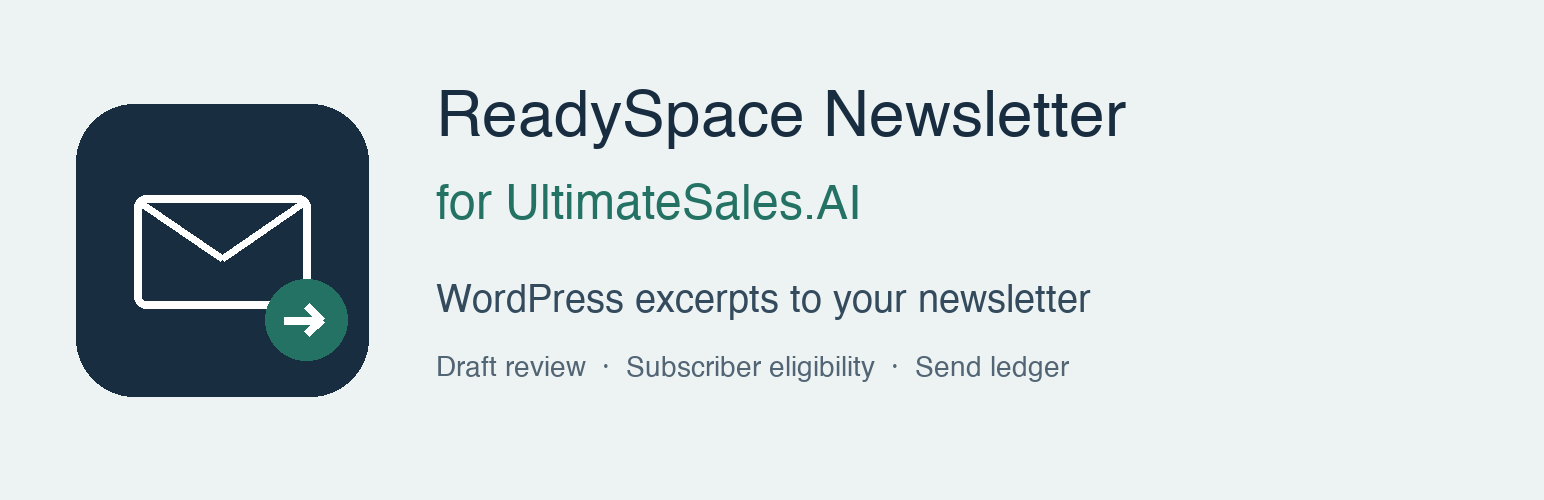
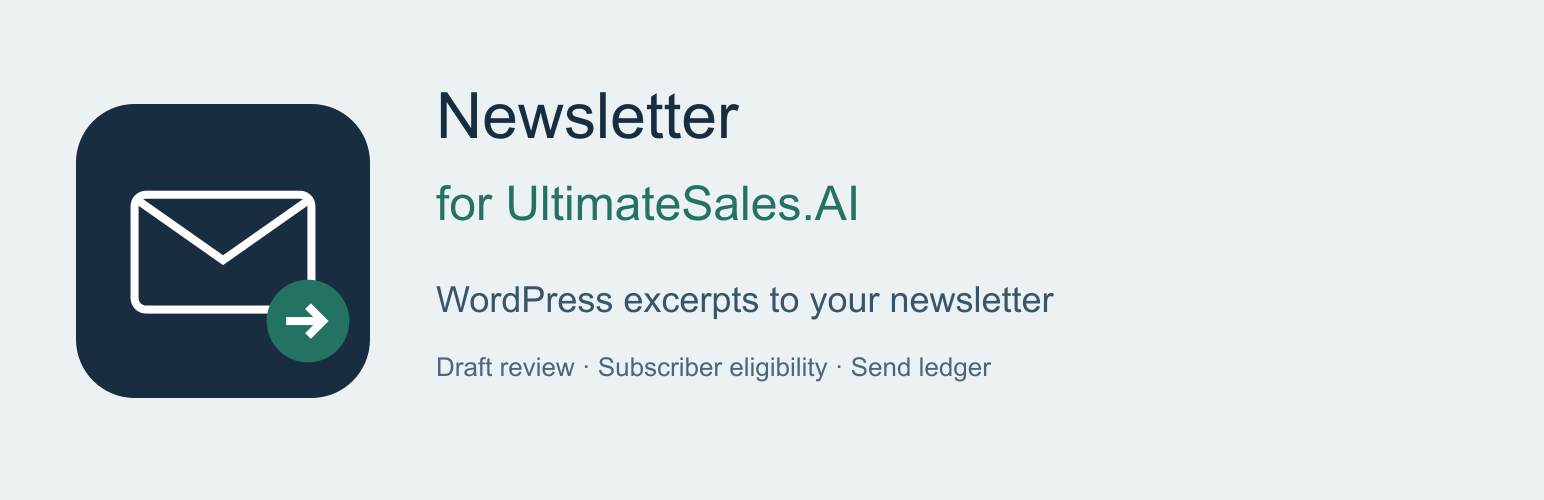
Rename plugin display name for 0.3.2

diff --git a/cleverspeed-newsletter/cleverspeed-newsletter.php b/cleverspeed-newsletter/cleverspeed-newsletter.php
@@ -1,8 +1,8 @@
 <?php
 /**
- * Plugin Name: ReadySpace Newsletter for UltimateSales.AI
+ * Plugin Name: Newsletter for UltimateSales.AI
  * Description: Direct WordPress-to-UltimateSales.AI article newsletters, with consent checks and a durable send ledger.
- * Version: 0.3.1
+ * Version: 0.3.2
  * Plugin URI: https://github.com/readyspace/WP-Ultimatesales.ai-Newsletter-Plugin
  * Requires at least: 6.9
  * Requires PHP: 8.1
@@ -165,13 +165,13 @@ final class Plugin {
         }
     }
 
-    public static function menu(): void { add_management_page('ReadySpace Newsletter Bridge','ReadySpace Newsletter','manage_options','cs-newsletter',[self::class,'page']); }
+    public static function menu(): void { add_management_page('Newsletter for UltimateSales.AI','UltimateSales.AI Newsletter','manage_options','cs-newsletter',[self::class,'page']); }
     public static function page(): void {
         if (!current_user_can('manage_options')) return;
         $s = self::settings();
         global $wpdb;
         $rows = $wpdb->get_results($wpdb->prepare("SELECT * FROM %i WHERE state<>'excluded' ORDER BY updated_at DESC LIMIT 30",self::table()),ARRAY_A);
-        echo '<div class="wrap"><h1>ReadySpace Newsletter for UltimateSales.AI</h1><p>By ReadySpace · Version 0.3.1 · Operator setup required</p><p>WordPress → UltimateSales.AI. No Next.js email logic and no WordPress SMTP.</p>';
+        echo '<div class="wrap"><h1>Newsletter for UltimateSales.AI</h1><p>By ReadySpace · Version 0.3.2 · Operator setup required</p><p>WordPress → UltimateSales.AI. No Next.js email logic and no WordPress SMTP.</p>';
         echo '<p>Private per-site configuration: ' . (Config::ready() ? 'valid' : 'missing or invalid; see the installation guide') . '.</p>';
         echo '<p>Mode: <strong>' . esc_html($s['mode']) . '</strong>. Private credential: ' . (Client::credentialReady() ? 'saved securely' : 'not ready') .
             '. Connection verification: ' . (self::verified() ? 'passed' : 'pending') . '.</p>';

diff --git a/README.md b/README.md
@@ -2,7 +2,7 @@
 
 By **ReadySpace**. A direct WordPress → UltimateSales.AI newsletter bridge for UltimateSales.AI (https://ultimatesales.ai) accounts. Any editor can write the post and its Excerpt; no ChatGPT, AI summariser, Next.js email code or WordPress SMTP is required.
 
-**Directory review update: 0.3.1. Operator setup required.** This retains the audited 0.3.0 implementation and replaces fictional setup URLs in the readme following WordPress.org's review. This public branch removes deployment-specific settings from the earlier single-site pilot. It requires private configuration and maintainer-led provider verification. It has not been deployed over the working pilot. Multisite is not supported.
+**Next release: 0.3.2 (display-name update; not yet published). Operator setup required.** This retains the published 0.3.1 implementation and changes its display name to Newsletter for UltimateSales.AI. The approved WordPress.org slug and integration identifiers remain unchanged. This public branch removes deployment-specific settings from the earlier single-site pilot. It requires private configuration and maintainer-led provider verification. It has not been deployed over the working pilot. Multisite is not supported.
 
 ## What it does
 
@@ -25,7 +25,7 @@ The plugin does **not** create signup forms, confirmation workflows, authenticat
 3. Read [operations and recovery](docs/OPERATIONS.md) before enabling delivery.
 4. See [development](docs/DEVELOPMENT.md) and [contributing](CONTRIBUTING.md) to collaborate.
 
-The source directory remains `cleverspeed-newsletter`. Directory candidate packages use `readyspace-newsletter-for-ultimatesales-ai`, matching the proposed public name **ReadySpace Newsletter for UltimateSales.AI**. Legacy database options, queue records, hooks and duplicate-send history retain their identifiers. Existing pilot installations need an explicit folder migration; never activate both copies. See [WordPress.org readiness](docs/WORDPRESS-ORG-READINESS.md).
+The source directory remains `cleverspeed-newsletter`. Directory packages retain the approved slug `readyspace-newsletter-for-ultimatesales-ai` and existing [WordPress.org listing](https://wordpress.org/plugins/readyspace-newsletter-for-ultimatesales-ai/), with the next display name **Newsletter for UltimateSales.AI**. Legacy database options, queue records, hooks and duplicate-send history retain their identifiers. Existing pilot installations need an explicit folder migration; never activate both copies. See [WordPress.org readiness](docs/WORDPRESS-ORG-READINESS.md).
 
 ## Requirements
 

diff --git a/docs/WORDPRESS-ORG-ASSETS.md b/docs/WORDPRESS-ORG-ASSETS.md
@@ -11,6 +11,7 @@ The candidate includes the following original files at the exact dimensions in t
 | File | Dimensions | Notes |
 | --- | --- | --- |
 | `icon.svg` | Scalable; current viewBox 256 by 256 | Original vector design. Include a PNG fallback when using SVG. |
+| `banner.svg` | Editable source, 772 by 250 viewBox | Export the two PNG banner sizes below; retain this source in Git. |
 | `icon-128x128.png` | 128 by 128 | Normal icon/fallback. |
 | `icon-256x256.png` | 256 by 256 | High-resolution icon. |
 | `banner-772x250.png` | 772 by 250 | Normal directory banner. |
@@ -24,7 +25,7 @@ Capture actual plugin screens from an isolated staging site using fictional conf
 
 Suggested captures after the relevant checks pass:
 
-1. `screenshot-1.png`: The Tools -> ReadySpace Newsletter screen with sending Off and no saved credential displayed.
+1. `screenshot-1.png`: The Tools -> UltimateSales.AI Newsletter screen with sending Off and no saved credential displayed.
 2. `screenshot-2.png`: The post newsletter exclusion control and the Excerpt field, using a fictional article.
 3. `screenshot-3.png`: A controlled draft-only job, with fictional/non-sensitive identifiers and actual tested status.
 
@@ -32,6 +33,6 @@ Only add a `== Screenshots ==` section to readme.txt when the corresponding file
 
 ## Release review
 
-Before public submission or SVN upload, confirm the final name/slug, licence rights for all artwork, exact pixel dimensions and file sizes. Inspect each icon/banner at its intended display size and check screenshots against the actual candidate. The repository and readme remain honest about the alpha until production acceptance is complete.
+Before public submission or SVN upload, confirm the final name/slug, licence rights for all artwork, exact pixel dimensions and file sizes. Inspect each icon/banner at its intended display size and check screenshots against the actual candidate. Keep the repository and readme explicit about release and verification status.
 
 Official specifications: [How Your Plugin Assets Work](https://developer.wordpress.org/plugins/wordpress-org/plugin-assets/).

diff --git a/docs/INSTALLATION.md b/docs/INSTALLATION.md
@@ -44,7 +44,7 @@ define('RS_NEWSLETTER_CONFIG', [
 
 These are required configuration values, not verified promises. The sender must be approved by your provider. Set `privacy_url` to your publication's live privacy notice on `public_origin`; it must match your actual practices. Any configuration change requires renewed verification. Stop workers and switch mode Off before changing configuration or credentials.
 
-Open **Tools → ReadySpace Newsletter**. Enter the token in its password field and choose **Save credential and keep sending off**. This requires an administrator, HTTPS and a valid WordPress nonce. The token is never displayed. A successful save proves storage, not connectivity. Do not put the token in the configuration example, shell history, issue tracker or chat.
+Open **Tools → UltimateSales.AI Newsletter**. Enter the token in its password field and choose **Save credential and keep sending off**. This requires an administrator, HTTPS and a valid WordPress nonce. The token is never displayed. A successful save proves storage, not connectivity. Do not put the token in the configuration example, shell history, issue tracker or chat.
 
 ## 3. Maintainer acceptance checks
 

diff --git a/CHANGELOG.md b/CHANGELOG.md
@@ -1,5 +1,20 @@
 # Changelog
 
+## 0.3.2 — display-name update (unreleased)
+
+- Rename the plugin, administrator screen and directory banner to Newsletter for UltimateSales.AI.
+- Retain the approved WordPress.org slug, plugin filename, text domain, ReadySpace author and every integration/storage identifier.
+- No newsletter, consent, credential, scheduling or ledger behavior changes.
+
+## 0.3.1 — WordPress.org first public release
+
+- Replace fictional setup URLs with explicit placeholders; retain the actual service policy links.
+- Approved and published on 10 October 2026 at SVN revision 3738304. Public package and all four directory images verified against the reviewed source.
+
+## 0.3.0 — numeric directory submission
+
+- Apply numeric release metadata to the audited implementation and submit the owner-approved GPLv2-or-later package.
+
 ## 0.3.0-alpha.3 — WordPress.org readiness review
 
 - Prepare the distinctive ReadySpace Newsletter for UltimateSales.AI name and directory readme, service/data-flow disclosures and separate directory artwork.
